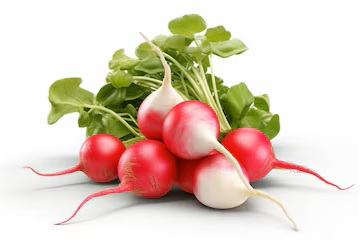
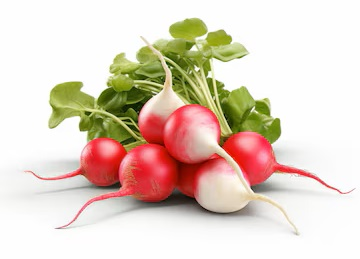
feat(assets): add 44 word images, expand word pool, fix silent-letter color in stories
- Stage 44 fruit/vegetable images (abricot, asperge, aubergine, avocat, basilic, betterave, brocoli, céleri, champignon, chou, citron, citrouille, concombre, coriandre, courgette, échalote, épinard, fraise, framboise, kiwi, mangue, melon, menthe, mûre, myrtille, nectarine, oignon, olive, orange, pastèque, persil, piment, poire, poireau, poivron, pomme, pomme-de-terre, raisin, romarin, salade, thym, tomate + updates to ananas/radis)
- Add 35 new WordItems entries with phonemes for all new images
- Add missing words to LETTER_WORDS for WordSpotter coverage
- Re-annotate all 15 stories with correct complex [grapheme] and silent {letter} markers per official phoneme rules
- Fix silent-letter color in story reader: use inline style to guarantee gray over parent text color

Changed region(s): [[0.0611, 0.0567, 0.9778, 0.9352], [0.1528, 0.3117, 0.2444, 0.3684], [0.9778, 0.7085, 1.0, 0.7368]]

diff --git a/lib/curriculum/lecture-data.ts b/lib/curriculum/lecture-data.ts
@@ -1171,11 +1171,11 @@ export const STORIES: Story[] = [
     title: "Le chat",
     level: "A1",
     sentences: [
-      "Le [ch]at est là.",
-      "Il est r[ou]x et gros.",
-      "Il dort sur le tapis.",
-      "Il [ai]me le lait.",
-      "Le [ch]at est content.",
+      "Le [ch]a{t} e{st} là.",
+      "Il e{st} r[ou]{x} et gro{s}.",
+      "Il dor{t} sur le tapi{s}.",
+      "Il [ai]m{e} le l[ai]{t}.",
+      "Le [ch]a{t} e{st} c[on]t[en]{t}.",
     ],
   },
   {
@@ -1183,11 +1183,11 @@ export const STORIES: Story[] = [
     title: "La pomme",
     level: "A1",
     sentences: [
-      "V[oi]ci une pomme r[ou]ge.",
-      "Elle est sur la table.",
-      "Lila prend la pomme.",
-      "Elle m[an]ge la pomme.",
-      "C'est b[on] et sucré.",
+      "V[oi]ci une pomm{e} r[ou]g{e}.",
+      "Elle e{st} sur la tabl{e}.",
+      "Lila pr[en]{d} la pomm{e}.",
+      "Elle m[an][ge] la pomm{e}.",
+      "C'e{st} b[on] et sucré.",
     ],
   },
   {
@@ -1195,11 +1195,11 @@ export const STORIES: Story[] = [
     title: "Le chien",
     level: "A1",
     sentences: [
-      "Le [ch]i[en] s'appelle Rex.",
-      "Rex est blanc et petit.",
-      "Il [ai]me j[ou]er.",
-      "Il dort dans son panier.",
-      "Rex est un bon ami.",
+      "Le [ch]i[en] s'appell{e} Rex.",
+      "Rex e{st} bl[an]c et peti{t}.",
+      "Il [ai]m{e} j[ou][er].",
+      "Il dor{t} d[an]{s} s[on] p[an]i[er].",
+      "Rex e{st} [un] b[on] ami.",
     ],
   },
   {
@@ -1207,11 +1207,11 @@ export const STORIES: Story[] = [
     title: "Le soleil",
     level: "A1",
     sentences: [
-      "Le sol[ei]l brille.",
-      "Il fait [ch]aud.",
-      "Tom sort d[an]s le jardin.",
-      "Il j[ou]e avec s[on] ball[on].",
-      "Quelle belle j[our]née !",
+      "Le sol[eil] br[ill]{e}.",
+      "Il f[ai]{t} [ch][au]{d}.",
+      "Tom sor{t} d[an]{s} le jard[in].",
+      "Il j[ou]{e} avec s[on] ball[on].",
+      "[Qu]ell{e} bell{e} j[ou]rné{e} !",
     ],
   },
   {
@@ -1219,11 +1219,11 @@ export const STORIES: Story[] = [
     title: "La maison",
     level: "A1",
     sentences: [
-      "Ma m[ai]s[on] est gr[an]de.",
-      "Elle est bl[an][ch]e.",
-      "Il y a un jardin.",
-      "N[ou]s j[ou][on]s ded[an]s.",
-      "C'est notre m[ai]s[on].",
+      "Ma m[ai]s[on] e{st} gr[an]d{e}.",
+      "Elle e{st} bl[an][ch]{e}.",
+      "Il y a [un] jard[in].",
+      "N[ou]{s} j[ou][on]{s} ded[an]{s}.",
+      "C'e{st} notr{e} m[ai]s[on].",
     ],
   },
   // ── A2 : Moyen ────────────────────────────────────────────────────────────────
@@ -1232,11 +1232,11 @@ export const STORIES: Story[] = [
     title: "Au marché",
     level: "A2",
     sentences: [
-      "Mama va au mar[ch]é.",
-      "Elle a[ch]ète des tomates et des carottes.",
-      "Elle prend aussi du pain et du fromage.",
-      "Le v[en]d[eu]r est g[en]til.",
-      "Mama r[en]tre à la m[ai]s[on] avec s[on] panier.",
+      "Mama va [au] mar[ch]é.",
+      "Elle a[ch]èt{e} des tomat{es} et des carott{es}.",
+      "Elle pr[en]{d} [au]ssi du p[ain] et du froma[ge].",
+      "Le v[en]d[eu]r e{st} g[en]til.",
+      "Mama r[en]tr{e} à la m[ai]s[on] avec s[on] p[an]i[er].",
     ],
   },
   {
@@ -1244,12 +1244,12 @@ export const STORIES: Story[] = [
     title: "Mon ami Paul",
     level: "A2",
     sentences: [
-      "Paul est m[on] ami.",
-      "Il a h[ui]t ans, comme m[oi].",
-      "Il habite dans ma rue.",
-      "N[ou]s all[on]s à l'école [en]semble.",
-      "Après l'école, n[ou]s j[ou][on]s dans le jardin.",
-      "Paul [ai]me les livres et les ball[on]s.",
+      "Paul e{st} m[on] ami.",
+      "Il a {h}ui{t} [an]{s}, comm{e} m[oi].",
+      "Il {h}abit{e} d[an]{s} ma ru{e}.",
+      "N[ou]{s} all[on]{s} à l'écol{e} [en]sembl{e}.",
+      "Après l'écol{e}, n[ou]{s} j[ou][on]{s} d[an]{s} le jard[in].",
+      "Paul [ai]m{e} les livr{es} et les ball[on]{s}.",
     ],
   },
   {
@@ -1257,11 +1257,11 @@ export const STORIES: Story[] = [
     title: "Le jardin",
     level: "A2",
     sentences: [
-      "Notre jardin est beau au pr[in]t[em]ps.",
-      "Papa plante des légumes.",
-      "Il y a des tomates, des carottes et de la salade.",
-      "N[ou]s arr[os][on]s les plantes [ch]aque j[our].",
-      "En été, n[ou]s cueil[l][on]s les légumes.",
+      "Notr{e} jard[in] e{st} b[eau] [au] pr[in]t[em]{ps}.",
+      "Papa plant{e} des légum{es}.",
+      "Il y a des tomat{es}, des carott{es} et de la salad{e}.",
+      "N[ou]{s} arros[on]{s} les plant{es} [ch]a[qu]{e} j[ou]r.",
+      "[En] été, n[ou]{s} c[ueil]l[on]{s} les légum{es}.",
     ],
   },
   {
@@ -1269,11 +1269,11 @@ export const STORIES: Story[] = [
     title: "Les animaux",
     level: "A2",
     sentences: [
-      "Léon visite une ferme.",
-      "Il y a des va[ch]es et des m[ou]t[on]s.",
-      "La va[ch]e d[on]ne du lait.",
-      "Les m[ou]t[on]s [on]t une l[ai]ne d[ou]ce.",
-      "Léon v[eu]t rev[en]ir dem[ain].",
+      "Lé[on] visit{e} une ferm{e}.",
+      "Il y a des va[ch]{es} et des m[ou]t[on]{s}.",
+      "La va[ch]{e} d[on]n{e} du l[ai]{t}.",
+      "Les m[ou]t[on]{s} [on]{t} une l[ai]n{e} d[ou]c{e}.",
+      "Lé[on] v[eu]{t} rev[en]ir dem[ain].",
     ],
   },
   {
@@ -1281,11 +1281,11 @@ export const STORIES: Story[] = [
     title: "Ma journée",
     level: "A2",
     sentences: [
-      "Le mat[in], je me lève tôt.",
-      "Je mange du pain avec de la confiture.",
-      "Je prends m[on] sac et je vais à l'école.",
-      "J'apprends à lire et à écrire.",
-      "Le s[oir], je lis une hist[oir]e.",
+      "Le mat[in], je me lèv{e} tôt.",
+      "Je m[an][ge] du p[ain] avec de la c[on]fitur{e}.",
+      "Je pr[en]{ds} m[on] sac et je v[ai]{s} à l'écol{e}.",
+      "J'appr[en]{ds} à lire et à écrire.",
+      "Le s[oir], je lis une {h}ist[oir]{e}.",
     ],
   },
   // ── B1 : Avancé ───────────────────────────────────────────────────────────────
@@ -1294,12 +1294,12 @@ export const STORIES: Story[] = [
     title: "À l'école",
     level: "B1",
     sentences: [
-      "Ce mat[in], Nora arrive à l'école de b[on]ne h[eu]re.",
-      "Sa maîtresse s'appelle Madame Blanc.",
-      "En classe, les élèves appr[en]n{ent} les lettres et les [ch]iffres.",
-      "Nora [ai]me surt[ou]t les hist[oir]es que la maîtresse lit.",
-      "À la récréati[on], elle j[ou]e avec ses amies.",
-      "Elle r[en]tre [ch]ez elle le s[oir], le cartable plein de dess[in]s.",
+      "Ce mat[in], Nora arriv{e} à l'écol{e} de b[on]n{e} {h}[eu]r{e}.",
+      "Sa m[ai]tr[ess]{e} s'appell{e} Madame Bl[an]c.",
+      "[En] cl[ass]{e}, les élèv{es} appr[en]n{ent} les lettr{es} et les [ch]iffr{es}.",
+      "Nora [ai]m{e} surt[ou]{t} les {h}ist[oir]{es} [qu]{e} la m[ai]tr[ess]{e} li{t}.",
+      "À la récréa[tion], ell{e} j[ou]{e} avec ses ami{es}.",
+      "Elle r[en]tr{e} [ch][ez] ell{e} le s[oir], le cartabl{e} pl[ein] de d[ess][in]{s}.",
     ],
   },
   {
@@ -1307,12 +1307,12 @@ export const STORIES: Story[] = [
     title: "La famille",
     level: "B1",
     sentences: [
-      "Dans ma famille, n[ou]s s[om]mes c[in]q.",
-      "Il y a papa, mama, ma gr[an]de sœur et m[on] petit frère.",
-      "Papa travaille dans un bur[eau] en ville.",
-      "Mama prépare de b[on]s repas p[our] t[ou]te la famille.",
-      "Le s[oir], n[ou]s mang[eon]s t[ou]s [en]semble.",
-      "Le week-[en]d, n[ou]s all[on]s dans la forêt.",
+      "D[an]{s} ma fam[ill]{e}, n[ou]{s} s[om]m{es} c[in]q.",
+      "Il y a papa, mama, ma gr[an]d{e} sœur et m[on] peti{t} frèr{e}.",
+      "Papa trav[ail]l{e} d[an]{s} [un] bur[eau] [en] vill{e}.",
+      "Mama prépare de b[on]{s} repa{s} p[ou]r t[ou]t{e} la fam[ill]{e}.",
+      "Le s[oir], n[ou]{s} m[an][ge][on]{s} t[ou]{s} [en]sembl{e}.",
+      "Le week-[en]{d}, n[ou]{s} all[on]{s} d[an]{s} la forê{t}.",
     ],
   },
   {
@@ -1320,11 +1320,11 @@ export const STORIES: Story[] = [
     title: "Les saisons",
     level: "B1",
     sentences: [
-      "En France, il y a quatre s[ai]s[on]s.",
-      "En hiver, il fait froid et il p[eu]t neiger.",
-      "Au pr[in]t[em]ps, les fl[eu]rs éclos{ent} et les [oi]s[eau]x [ch][an]t{ent}.",
-      "En été, il fait [ch][au]d et les [en]f[an]ts j[ou]{ent} deh[or]s.",
-      "En automne, les f[eu][ill]es dev[ien]n{ent} r[ou]ges et j[au]nes.",
+      "[En] Fr[an]c{e}, il y a [qu]atr{e} s[ai]s[on]{s}.",
+      "[En] {h}iv[er], il f[ai]{t} fr[oi]{d} et il p[eu]{t} n[ei]g[er].",
+      "[Au] pr[in]t[em]{ps}, les fl[eu]r{s} éclos{ent} et les [oi]s[eau]{x} [ch][an]t{ent}.",
+      "[En] été, il f[ai]{t} [ch][au]{d} et les [en]f[an]{ts} j[ou]{ent} de{h}or{s}.",
+      "[En] [au]tomn{e}, les f[eu][ill]{es} dev[ien]n{ent} r[ou][ge]{s} et j[au]n{es}.",
     ],
   },
   {
@@ -1332,12 +1332,12 @@ export const STORIES: Story[] = [
     title: "Le voyage",
     level: "B1",
     sentences: [
-      "La famille part en voyage en tr[ain].",
-      "Ils v[oy]ag{ent} jusqu'à Lyon.",
-      "Dans le tr[ain], ils regard{ent} le paysage par la fen[êt]re.",
-      "Ils v[oi]{ent} des rivi[èr]es et des montagnes.",
-      "Arrivés à Lyon, ils visit{ent} la vieille ville.",
-      "C'est un beau voyage !",
+      "La fam[ill]{e} par{t} [en] tr[ain].",
+      "Ils v[oy]ag{ent} jus[qu]'à Ly[on].",
+      "D[an]{s} le tr[ain], ils regard{ent} le paysa[ge] par la fenêtr{e}.",
+      "Ils v[oi]{ent} des rivièr{es} et des m[on]ta[gn]{es}.",
+      "Arrivés à Ly[on], ils visit{ent} la vi[eil]l{e} vill{e}.",
+      "C'e{st} [un] b[eau] v[oy]age !",
     ],
   },
   {
@@ -1345,12 +1345,12 @@ export const STORIES: Story[] = [
     title: "La forêt",
     level: "B1",
     sentences: [
-      "La forêt est un [en]dr[oi]t mystéri[eux].",
-      "Les arbres s[on]t très gr[an]ds et t[ou]ffus.",
-      "Des [oi]s[eau]x [ch][an]t{ent} dans les br[an][ch]es.",
-      "Un éc[ur][eu]il s[au]te de branche en branche.",
-      "Le sol[ei]l filtre à travers les f[eu][ill]es.",
-      "N[ou]s mar[ch][on]s doucement p[our] ne pas dér[an]ger les anim[aux].",
+      "La forê{t} e{st} [un] [en]dr[oi]{t} mystéri[eu]{x}.",
+      "Les arbr{es} s[on]{t} très gr[an]{ds} et t[ou]ffu{s}.",
+      "Des [oi]s[eau]{x} [ch][an]t{ent} d[an]{s} les br[an][ch]{es}.",
+      "[Un] écur[euil] s[au]t{e} de br[an][ch]{e} [en] br[an][ch]{e}.",
+      "Le sol[eil] filtr{e} à trav[er]{s} les f[eu][ill]{es}.",
+      "N[ou]{s} mar[ch][on]{s} d[ou]cement p[ou]r ne pa{s} dér[an]g[er] les anim[au]{x}.",
     ],
   },
 ];

diff --git a/lib/curriculum/word-pool.ts b/lib/curriculum/word-pool.ts
@@ -174,10 +174,46 @@ export const WORD_ITEMS: WordItem[] = [
   { label: "saxophone",  phonemes: ["/s/", "/a/", "/ks/", "/o/", "/f/"] },
   { label: "xylophone",  phonemes: ["/ks/", "/i/", "/l/", "/f/"] },
   // ── Z ──────────────────────────────────────────────────────────────────────
-  { label: "zebre",      phonemes: ["/z/", "/b/", "/r/"] },
-  { label: "zéro",       phonemes: ["/z/", "/e/", "/r/", "/o/"] },
-  { label: "zigzag",     phonemes: ["/z/", "/i/", "/g/", "/a/"] },
-  { label: "zoo",        phonemes: ["/z/"] },
+  { label: "zebre",          phonemes: ["/z/", "/b/", "/r/"] },
+  { label: "zéro",           phonemes: ["/z/", "/e/", "/r/", "/o/"] },
+  { label: "zigzag",         phonemes: ["/z/", "/i/", "/g/", "/a/"] },
+  { label: "zoo",            phonemes: ["/z/"] },
+  // ── Légumes & Fruits ───────────────────────────────────────────────────────
+  { label: "asperge",        phonemes: ["/a/", "/s/", "/p/", "/r/", "/ʒ/"] },
+  { label: "aubergine",      phonemes: ["/o/", "/b/", "/r/", "/ʒ/", "/i/", "/n/"] },
+  { label: "avocat",         phonemes: ["/a/", "/v/", "/o/", "/k/"] },
+  { label: "basilic",        phonemes: ["/b/", "/a/", "/z/", "/i/", "/l/", "/k/"] },
+  { label: "betterave",      phonemes: ["/b/", "/t/", "/r/", "/a/", "/v/"] },
+  { label: "brocoli",        phonemes: ["/b/", "/r/", "/o/", "/k/", "/l/", "/i/"] },
+  { label: "celeri",         phonemes: ["/s/", "/l/", "/r/", "/i/"] },
+  { label: "champignon",     phonemes: ["/p/", "/a/", "/i/", "/o/"] },
+  { label: "chou",           phonemes: [] },
+  { label: "citrouille",     phonemes: ["/s/", "/i/", "/t/", "/r/"] },
+  { label: "concombre",      phonemes: ["/k/", "/o/", "/b/", "/r/"] },
+  { label: "coriandre",      phonemes: ["/k/", "/o/", "/r/", "/i/", "/a/", "/d/"] },
+  { label: "courgette",      phonemes: ["/k/", "/r/", "/ʒ/", "/t/"] },
+  { label: "echalote",       phonemes: ["/e/", "/a/", "/l/", "/t/"] },
+  { label: "epinard",        phonemes: ["/e/", "/p/", "/i/", "/n/", "/a/", "/r/"] },
+  { label: "framboise",      phonemes: ["/f/", "/r/", "/b/", "/wa/", "/z/"] },
+  { label: "mangue",         phonemes: ["/m/", "/a/", "/g/"] },
+  { label: "melon",          phonemes: ["/m/", "/l/", "/o/"] },
+  { label: "menthe",         phonemes: ["/m/", "/t/"] },
+  { label: "mure",           phonemes: ["/m/", "/y/", "/r/"] },
+  { label: "myrtille",       phonemes: ["/m/", "/i/", "/r/", "/t/"] },
+  { label: "nectarine",      phonemes: ["/n/", "/k/", "/t/", "/r/", "/i/"] },
+  { label: "oignon",         phonemes: ["/wa/", "/o/", "/n/"] },
+  { label: "olive",          phonemes: ["/o/", "/l/", "/i/", "/v/"] },
+  { label: "pasteque",       phonemes: ["/p/", "/a/", "/s/", "/t/", "/k/"] },
+  { label: "persil",         phonemes: ["/p/", "/r/", "/s/", "/i/", "/l/"] },
+  { label: "piment",         phonemes: ["/p/", "/i/", "/m/"] },
+  { label: "poire",          phonemes: ["/p/", "/wa/", "/r/"] },
+  { label: "poireau",        phonemes: ["/p/", "/wa/", "/r/", "/o/"] },
+  { label: "poivron",        phonemes: ["/p/", "/wa/", "/v/", "/r/"] },
+  { label: "pomme-de-terre", phonemes: ["/p/", "/m/", "/d/", "/t/", "/r/"] },
+  { label: "raisin",         phonemes: ["/r/", "/z/"] },
+  { label: "romarin",        phonemes: ["/r/", "/m/", "/a/"] },
+  { label: "salade",         phonemes: ["/s/", "/a/", "/l/", "/d/"] },
+  { label: "thym",           phonemes: ["/t/", "/m/"] },
 ];
 
 // ── Large word list for WordSpotter (letter recognition only, no phoneme data) ─
@@ -185,6 +221,7 @@ export const WORD_ITEMS: WordItem[] = [
 export const LETTER_WORDS: string[] = [
   // ── A ──
   "arbre","ami","ananas","abricot","avion","animal","araignée","alphabet","autobus",
+  "asperge","aubergine","avocat",
   "ambulance","abeille","aigle","arc","armoire","assiette","artiste","agenda",
   "antilope","astronaute","accordéon","acrobate","alligator","anniversaire",
   "aquarium","arrosoir","aspirateur","araignée","avocado","albatros","araignée",
@@ -196,6 +233,7 @@ export const LETTER_WORDS: string[] = [
   "bouteille","boîte","baleine","bonbon","botte","bosquet","brocoli","baguette",
   "bleuet","biscuit","bobine","bœuf","bombardier","bouclier","bourdon","bouvreuil",
   "brebis","brindille","brochet","bulle","bûcheron","buisson","bulldozer",
+  "basilic","betterave",
   // ── C ──
   "café","canard","carotte","casque","cube","crayon","crocodile","citron","cerise",
   "chat","chien","chapeau","château","cheval","cochon","crabe","champignon","camion",
@@ -204,6 +242,7 @@ export const LETTER_WORDS: string[] = [
   "castor","cerf","cerf-volant","chameau","château","chimie","chouette","chute",
   "cigare","ciment","ciseaux","cloche","cloison","clôture","cobra","colimaçon",
   "colombe","comète","compas","coquille","corail","corde","corbeau","cornichon",
+  "céleri","chou","citrouille","concombre","coriandre","courgette",
   // ── D ──
   "dauphin","domino","dragon","drapeau","dodo","danse","dindon","diplôme","dent",
   "doigt","dalmatien","dessert","dinosaure","detective","daim","décoration",
@@ -215,6 +254,7 @@ export const LETTER_WORDS: string[] = [
   "étagère","échelle","épaule","éclair","écran","édredon","effrayant","égout",
   "éléphant","émeu","encre","endroit","entonnoir","épice","équipe","erreur",
   "espace","étang","étiquette","étoffe","étudiant","éveil","évier",
+  "épinard","échalote",
   // ── F ──
   "farine","flamme","fleur","forêt","fraise","fromage","fusée","flûte","fée",
   "fenêtre","fourmi","fanfare","famille","foulard","fantôme","framboise","flaçon",
@@ -255,6 +295,7 @@ export const LETTER_WORDS: string[] = [
   "mappemonde","marguerite","marsouin","martin","martinet","masque","mât",
   "médaille","menhir","merle","mésange","météore","miette","milan","mimosa",
   "moineau","moule","mûre","muret","myrtille","mystère","méduse",
+  "mangue","menthe",
   // ── N ──
   "nid","noisette","nuage","nuit","neige","nénuphar","nœud","nounours","nougat",
   "narval","naseau","navet","naïade","nasse","nautile","navette","navet",
@@ -264,6 +305,7 @@ export const LETTER_WORDS: string[] = [
   "oiseau","orange","ours","oreille","ordinateur","olive","otarie","ogre",
   "obélisque","océan","oeillet","ombre","omelette","ongle","opossum","oranger",
   "orchidée","orgue","ortie","oscille","oubli","outarde","outre","ovale","ovni",
+  "oignon",
   // ── P ──
   "panda","papillon","piano","poisson","pomme","puzzle","piste","perroquet",
   "poney","pieuvre","pirate","pantalon","pelican","phoque","panthère","poire",
@@ -273,6 +315,7 @@ export const LETTER_WORDS: string[] = [
   "plinthe","plongeon","plume","poireau","polaire","pompon","ponctuation",
   "portail","portique","potager","poulain","poutre","prairie","praire","prisme",
   "propulseur","prunier","puce","puma","punaise","python",
+  "persil","pomme-de-terre","poivron",
   // ── Q ──
   "queue","quille","quiche","quartier","quinze","quille","quetzal","quinquet",
   "quinconce","quiproquo","quota",
@@ -282,6 +325,7 @@ export const LETTER_WORDS: string[] = [
   "rameau","ramier","rasoir","rateau","rayon","récif","réglisse","rémora","rennet",
   "reptile","réseau","rhododendron","rigole","ronce","rosier","rouget","rouille",
   "rouleau","roussette","ruche","ruisseau","rutabaga",
+  "romarin","raisin",
   // ── S ──
   "sapin","serpent","singe","soleil","souris","stylo","solo","cire","sac",
   "sandwich","sanglier","salade","sauterelle","saucisse","saumon","scarabée",
@@ -296,6 +340,7 @@ export const LETTER_WORDS: string[] = [
   "trottoir","tacot","tamanoir","tamarin","taon","tartan","teckel","termite",
   "terrier","tige","timon","tisserin","toboggan","toucan","trèfle","trident",
   "triton","tronc","troupeau","truffe","truite","tube","tunnel","turbine","tuyau",
+  "thym",
   // ── U ──
   "usine","uniforme","ukulélé","ultrason","urne","urus","utopie",
   // ── V ──

diff --git a/app/(main)/lecture/histoires/[id]/page.tsx b/app/(main)/lecture/histoires/[id]/page.tsx
@@ -21,9 +21,9 @@ function AnnotatedText({ text }: { text: string }) {
     <>
       {segments.map((seg: StorySegment, i: number) =>
         seg.kind === "complex" ? (
-          <span key={i} className="font-semibold text-[var(--color-accent-lecture)]">{seg.text}</span>
+          <span key={i} className="font-semibold" style={{ color: "var(--color-accent-lecture)" }}>{seg.text}</span>
         ) : seg.kind === "silent" ? (
-          <span key={i} className="text-[var(--color-text-secondary)]">{seg.text}</span>
+          <span key={i} style={{ color: "var(--color-text-secondary)" }}>{seg.text}</span>
         ) : (
           <span key={i}>{seg.text}</span>
         )
